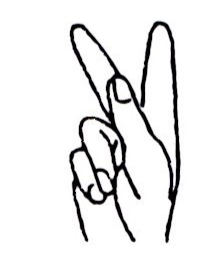
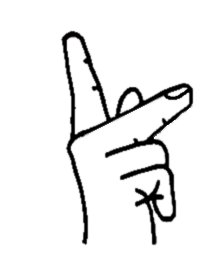
update DGS sprites to ÖGS
- update 'e', 'g', 'h', 'k', 'p', 'q', 's' and 't'
- add alternate versions for 'm' and 'n' (yet to be used)
- enlarge 'sch'

Changed region(s): [[0.2791, 0.0604, 0.9209, 0.9358]]

diff --git a/assets/alphabets.js b/assets/alphabets.js
@@ -13,21 +13,23 @@ alphabets={
 "k": {"x": 645, "y": 265},
 "l": {"x": 860, "y": 265},
 "m": {"x": 1075, "y": 265},
-"n": {"x": 1290, "y": 265},
-"o": {"x": 1505, "y": 265},
-"p": {"x": 0, "y": 530},
-"q": {"x": 215, "y": 530},
-"r": {"x": 430, "y": 530},
-"s": {"x": 645, "y": 530},
-"sch": {"x": 860, "y": 530},
-"t": {"x": 1075, "y": 530},
-"u": {"x": 1290, "y": 530},
-"v": {"x": 1505, "y": 530},
-"w": {"x": 0, "y": 795},
-"x": {"x": 215, "y": 795},
-"y": {"x": 430, "y": 795},
-"z": {"x": 645, "y": 795},
-"ä": {"x": 860, "y": 795},
-"ö": {"x": 1075, "y": 795},
-"ü": {"x": 1290, "y": 795},
+"m2": {"x": 1290, "y": 265},
+"n": {"x": 1505, "y": 265},
+"n2": {"x": 0, "y": 530},
+"o": {"x": 215, "y": 530},
+"p": {"x": 430, "y": 530},
+"q": {"x": 645, "y": 530},
+"r": {"x": 860, "y": 530},
+"s": {"x": 1075, "y": 530},
+"sch": {"x": 1290, "y": 530},
+"t": {"x": 1505, "y": 530},
+"u": {"x": 0, "y": 795},
+"v": {"x": 215, "y": 795},
+"w": {"x": 430, "y": 795},
+"x": {"x": 645, "y": 795},
+"y": {"x": 860, "y": 795},
+"z": {"x": 1075, "y": 795},
+"ä": {"x": 1290, "y": 795},
+"ö": {"x": 1505, "y": 795},
+"ü": {"x": 0, "y": 1060},
 }

diff --git a/scripts/main.js b/scripts/main.js
@@ -1,6 +1,7 @@
 // references:
 // - https://asl.ms/ (main inspiration)
 // - https://docs.signdict.org/dgs/4_fingeralphabet/ (sprites)
+// - https://www.handscom.at/shop.php (ögs specific sprites)
 // - https://github.com/qu1queee/commongermanwords (pointer to wordlist)
 // - http://web.archive.org/web/20170227200416/http://wortschatz.uni-leipzig.de/html/wliste.html (original wordlist)
 
